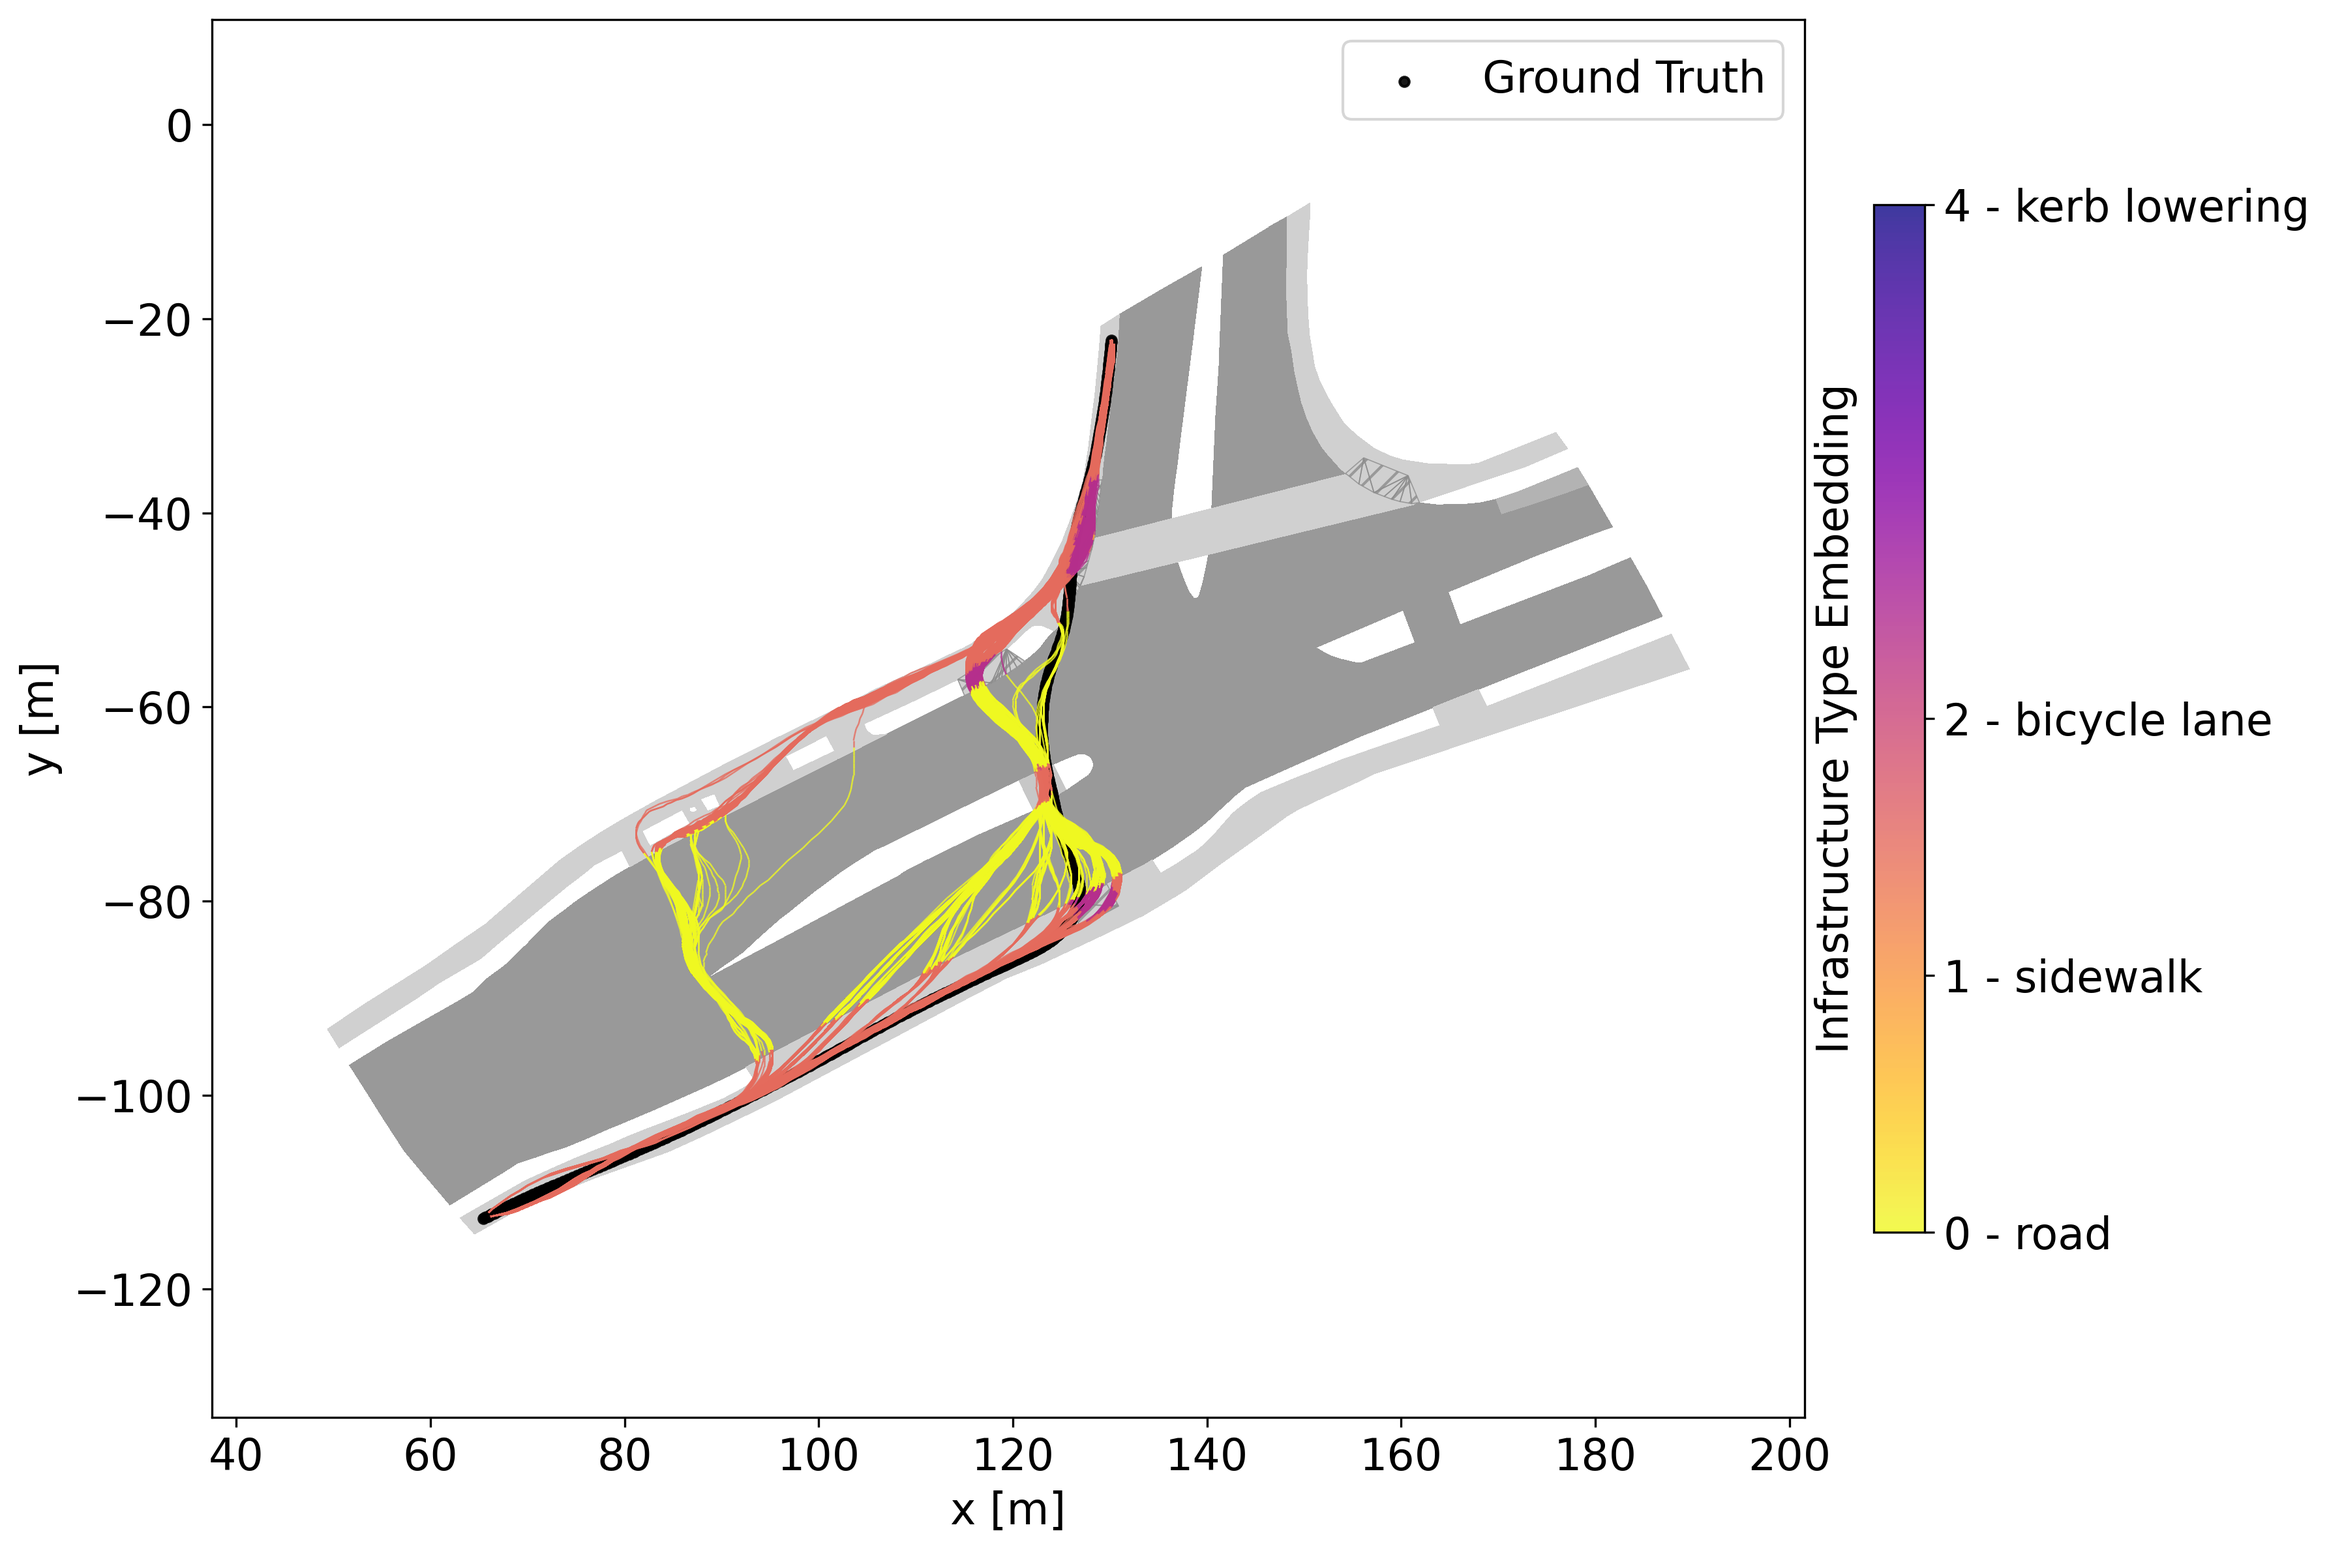
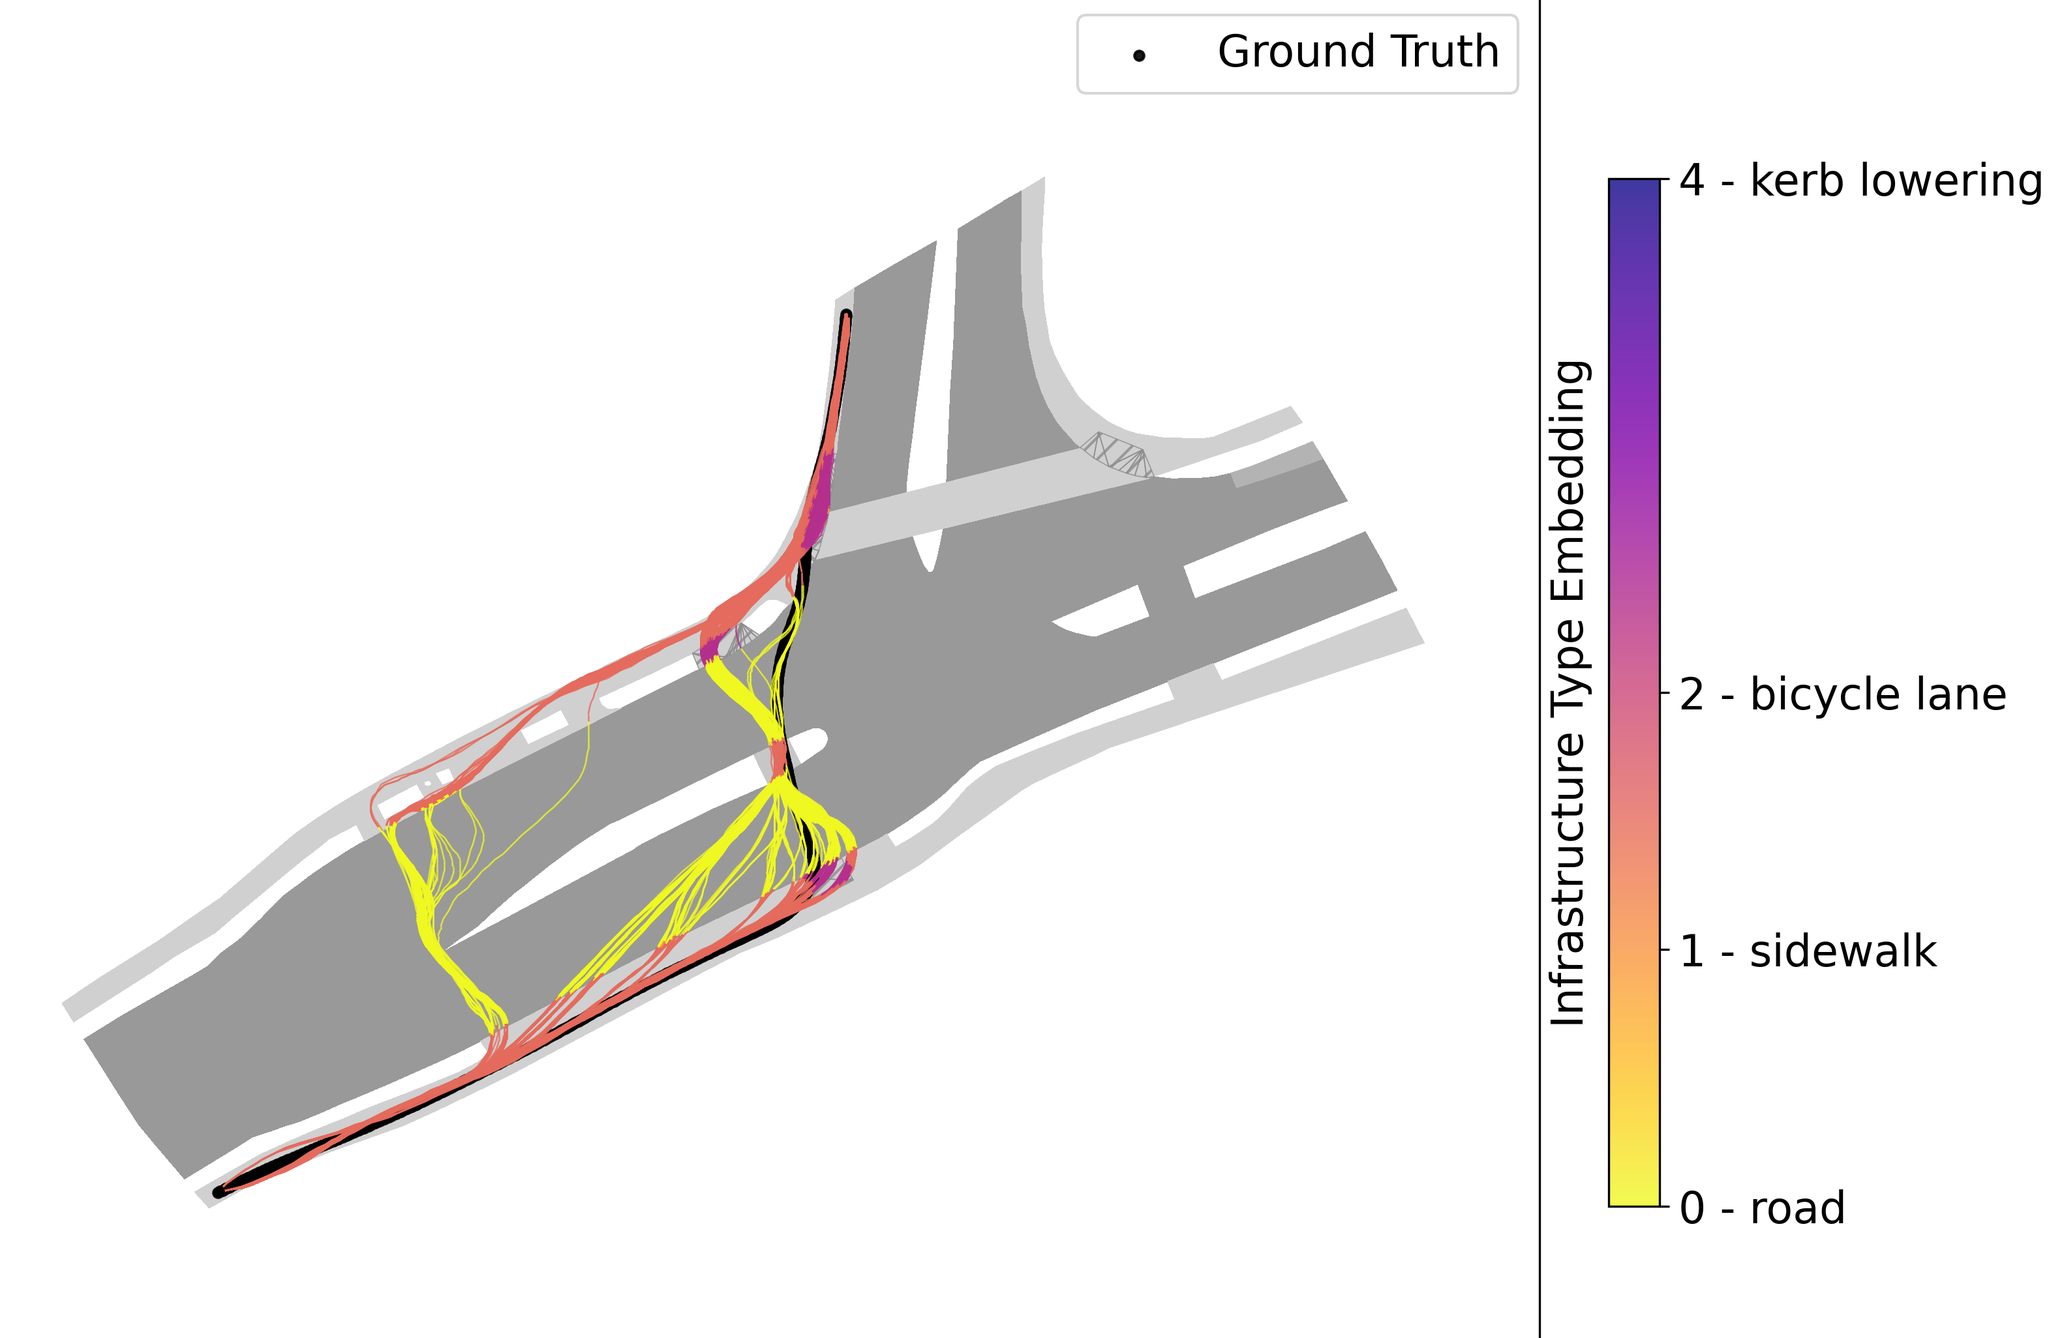
projects update

diff --git a/_projects/driving-simulation.md b/_projects/driving-simulation.md
@@ -3,7 +3,28 @@ title: Human-in-the-Loop Experiments
 category: Research
 description: Design and operation of human-in-the-loop experiments on testbed or simulators including driving, cycling, pedestrian, and wheelchair simulators for road user behavior research.
 status: Active
-image: /img/tum-img-bikesim.jpg
+image: /img/bikesim-cave.jpg
 order: 4
 ---
-[Add more detail about this project here.]
+# ISO Standartization
+Different driving simulators are suited for different use-cases, as cross-simulator studies in the past
+confirmed. The question arises as to how to appropriately describe what driving simulator was used in a simula-
+tor study. A working initiative within the International Organization for Standardization (ISO) currently addresses
+this issue and is developing a standard to systematically describe driving simulators, or use-case requirements
+(planned as ISO 26014). Researchers and practitioners will benefit from a suchlike standard, which will introduce
+a better comparability across scientific studies and will allow a more precise communication between requesters
+and suppliers. 
+
+`[Presented at DSC 2026]`
+
+# Human-In-The Loop Simulators
+
+## Bicycle Simulator
+
+## Escooter Simulator
+
+## Pedestrian Simulator
+
+## Driving Simulator
+
+# Field Testing

diff --git a/_projects/automated-vehicles.md b/_projects/automated-vehicles.md
@@ -25,6 +25,12 @@ a foundation for developing systems that can operate safely and efficiently whil
 quality and meeting legal standards.
 
 
+## Robotic Operator and Travel Companion
+Automated public transport requires new approaches for providing passenger-facing functions that are traditionally performed by human operators. We conduct a study investigating passenger acceptance of a physically embodied humanoid robot as an on-board interaction agent and examines whether it can effectively communicate information, safety guidance, and behavioral instructions.
+
+![Robo agent interacting with public transport passenger](/img/robo-approach.png)
+
+
 ## Inclusive Automated Public Transit
 Automated Mobility on-Demand (AMOD) and autonomous buses offer transformative po-
 tential for public transport (PT), yet their success hinges on whether driverless operations

diff --git a/_projects/data-collection.md b/_projects/data-collection.md
@@ -1,7 +1,7 @@
 ---
 title: Data Collection
 category: Research
-description: Traffic Datacollection using Lidar and Drone Systems.
+description: Real-World Traffic Data Collection using Lidar and Drone Systems. Development of Detection and Tracking Algorithms.
 status: Active
 image: /img/lidar-detection.png
 order: 5
